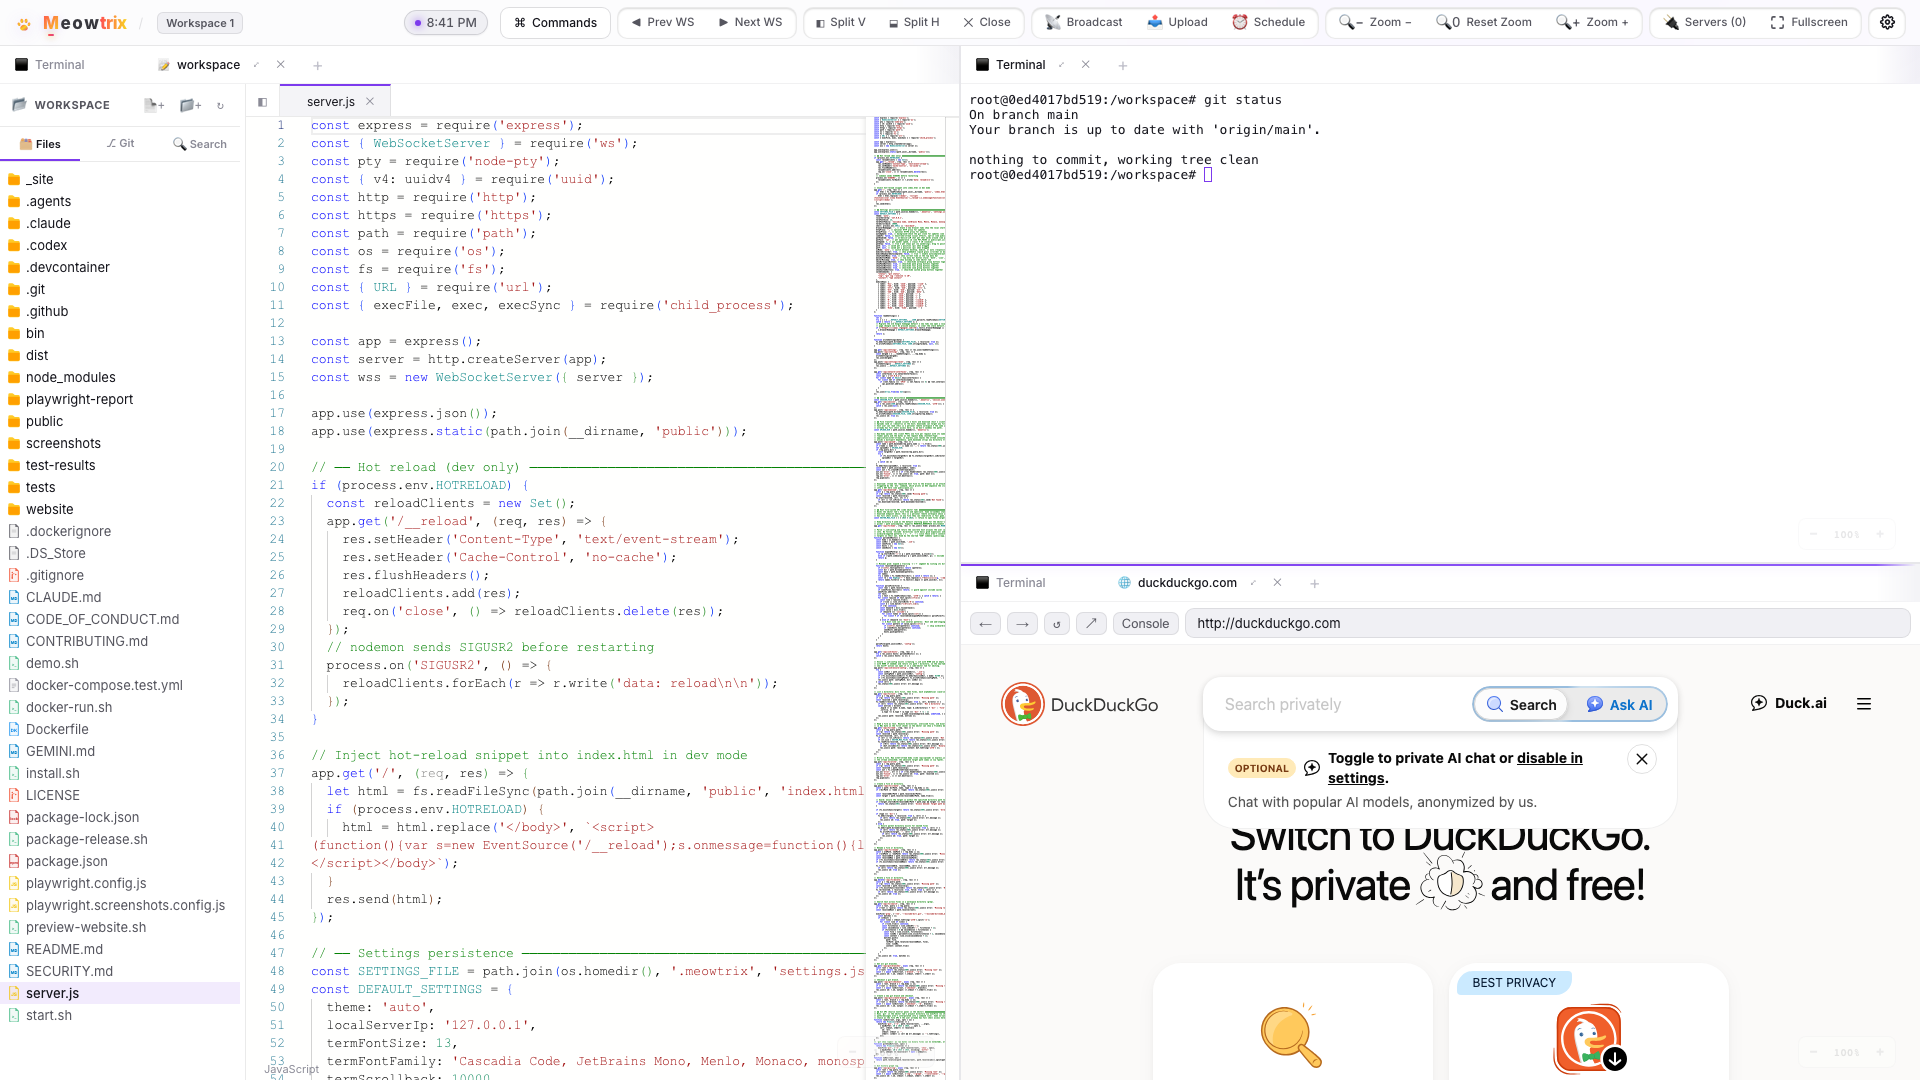
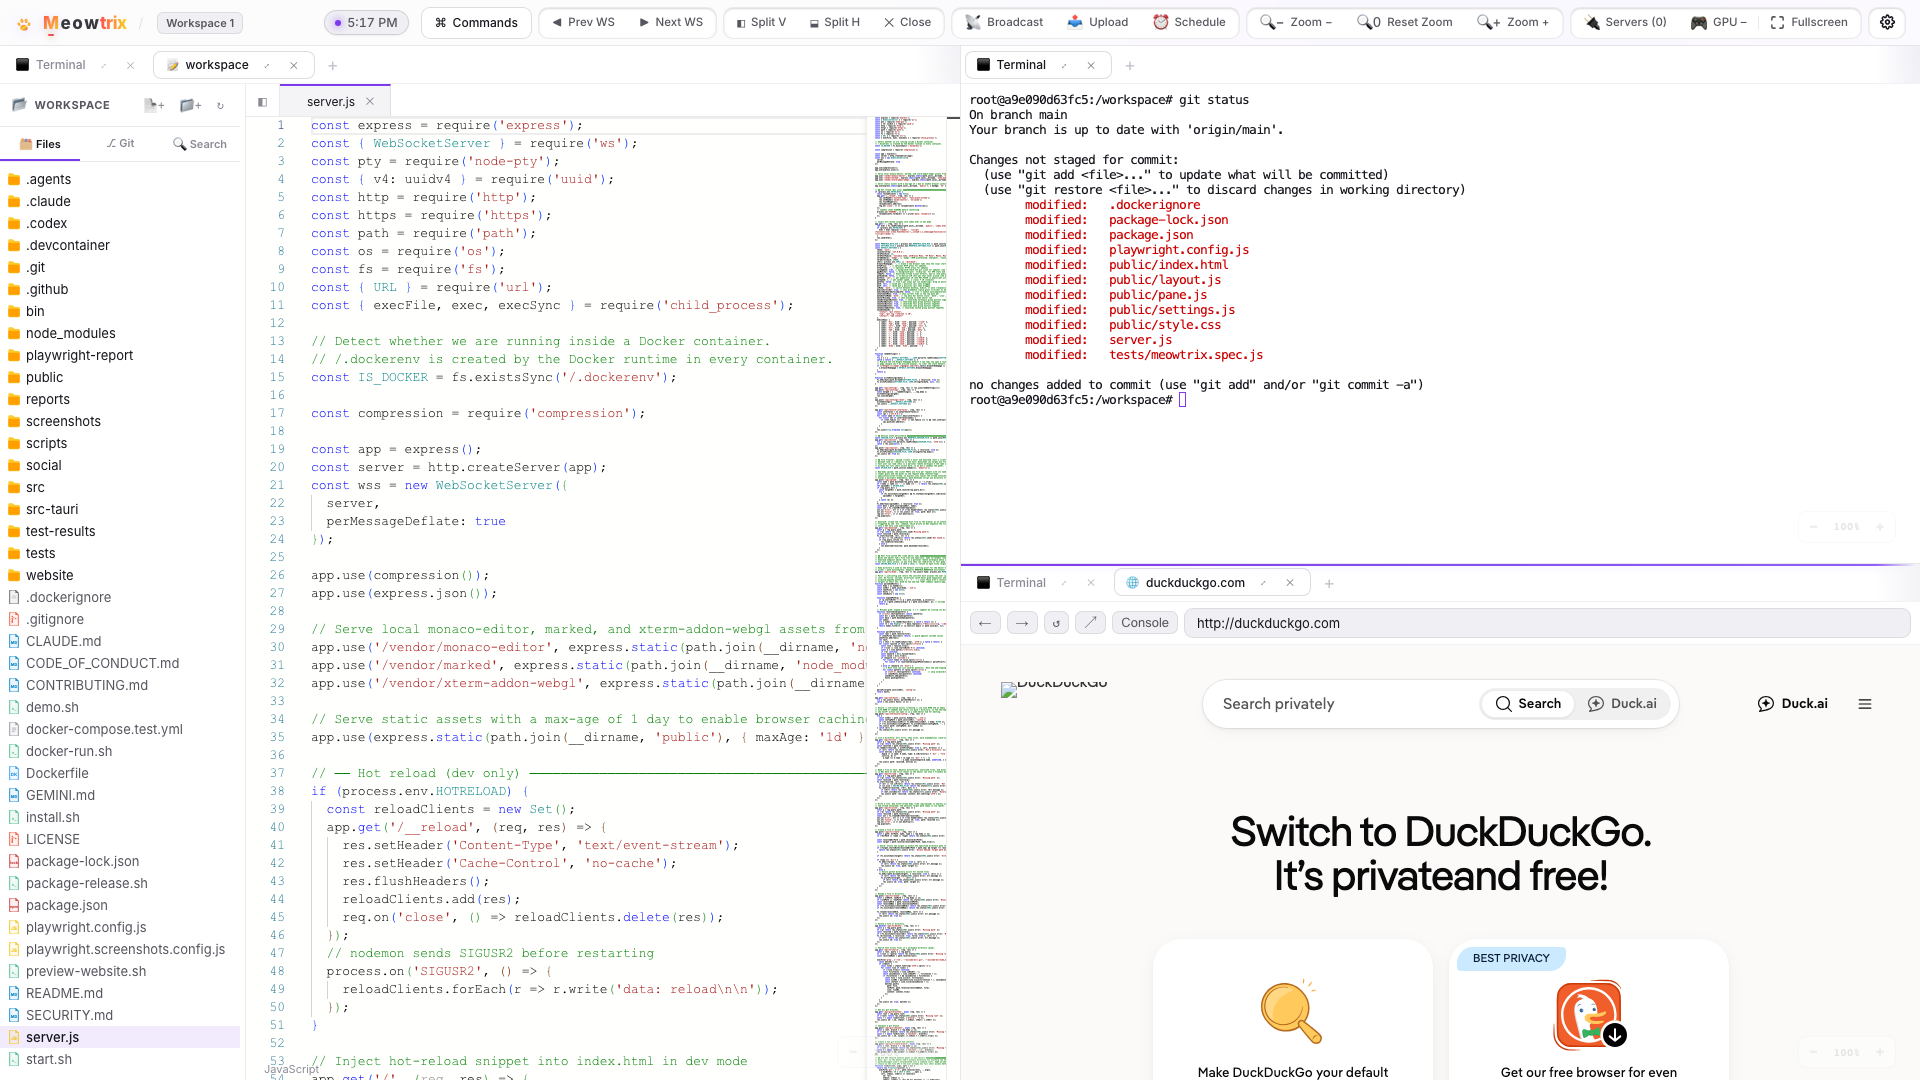
feat: add WebGL GPU terminal rendering, native SF Mono font stack, and crisp hairline border styling

diff --git a/public/pane.js b/public/pane.js
@@ -473,7 +473,13 @@ function closeTab(pane, id) {
   const tab = pane.tabs[idx];
   if (typeof teardownSchedule === 'function') teardownSchedule(tab); // stop any pending Enter timer
   if (tab.ptyId) destroyPty(tab.ptyId);
-  if (tab.term) tab.term.dispose();
+  if (tab.webglAddon) {
+    try { tab.webglAddon.dispose(); } catch (e) {}
+    tab.webglAddon = null;
+  }
+  if (tab.term) {
+    try { tab.term.dispose(); } catch (e) {}
+  }
   if (tab.disposeTerminal) tab.disposeTerminal();
   if (tab.disposeEditor) tab.disposeEditor();
   tab.viewEl.remove();
@@ -495,10 +501,11 @@ function initTerminalTab(tab, existingPtyId) {
   const term = new Terminal({
     theme: getTermTheme(),
     fontSize: Math.round((s.termFontSize || 13) * (tab.zoomLevel || 1.0)),
-    fontFamily: s.termFontFamily || '"Cascadia Code", "JetBrains Mono", Menlo, Monaco, monospace',
+    fontFamily: s.termFontFamily || '"Cascadia Code", "JetBrains Mono", "SF Mono", Menlo, Monaco, monospace',
     cursorBlink: true,
     scrollback: s.termScrollback || 10000,
     allowProposedApi: true,
+    screenReaderMode: true,
   });
   const fitAddon = new FitAddon.FitAddon();
   term.loadAddon(fitAddon);
@@ -653,6 +660,23 @@ function initTerminalTab(tab, existingPtyId) {
   }
 
   term.open(tab.viewEl);
+
+  // Load WebGL addon for GPU-accelerated glyph rendering and crisp high-DPI text
+  if (window.WebglAddon && s.termRenderer !== 'canvas' && s.termRenderer !== 'dom') {
+    try {
+      const webglAddon = new window.WebglAddon.WebglAddon();
+      webglAddon.onContextLoss(() => {
+        console.warn('WebGL context lost, disposing WebGL addon to fallback to 2D renderer');
+        try { webglAddon.dispose(); } catch (_) {}
+        tab.webglAddon = null;
+      });
+      term.loadAddon(webglAddon);
+      tab.webglAddon = webglAddon;
+    } catch (e) {
+      console.warn('WebGL addon failed to initialize, falling back to default renderer:', e);
+      tab.webglAddon = null;
+    }
+  }
 
   // Prevent browser autofill and password manager popups on the terminal input textarea
   const helperTextarea = tab.viewEl.querySelector('.xterm-helper-textarea');
@@ -824,17 +848,47 @@ function initTerminalTab(tab, existingPtyId) {
     tab.zoomLevel = zoomLevel;
     const baseFontSize = (getSettings().termFontSize || 13);
     term.options.fontSize = Math.round(baseFontSize * zoomLevel);
+    if (tab.webglAddon && typeof tab.webglAddon.clearTextureAtlas === 'function') {
+      try { tab.webglAddon.clearTextureAtlas(); } catch {}
+    }
     if (tab.fitAddon && tab.viewEl && tab.viewEl.classList.contains('active')) {
       try { tab.fitAddon.fit(); } catch {}
     }
   };
   tab.disposeTerminal = () => {
     ro.disconnect();
+    if (tab.webglAddon) {
+      try { tab.webglAddon.dispose(); } catch (_) {}
+      tab.webglAddon = null;
+    }
     if (tab.mobileScrollDis) { tab.mobileScrollDis.dispose(); tab.mobileScrollDis = null; }
     if (tab.mobileLfDis) { tab.mobileLfDis.dispose(); tab.mobileLfDis = null; }
     if (tab.mobileResizeDis) { tab.mobileResizeDis.dispose(); tab.mobileResizeDis = null; }
     if (tab.acActive) closeAutocomplete(tab);
   };
+}
+
+function applyTermRenderer(tab, renderer) {
+  if (!tab || tab.type !== 'terminal' || !tab.term) return;
+  const targetRenderer = renderer || (typeof getSettings === 'function' ? getSettings().termRenderer : 'webgl') || 'webgl';
+  if (targetRenderer === 'webgl' && window.WebglAddon && !tab.webglAddon) {
+    try {
+      const addon = new window.WebglAddon.WebglAddon();
+      addon.onContextLoss(() => {
+        try { addon.dispose(); } catch (_) {}
+        tab.webglAddon = null;
+      });
+      tab.term.loadAddon(addon);
+      tab.webglAddon = addon;
+    } catch (e) {
+      console.warn('Failed to load WebGL addon:', e);
+    }
+  } else if ((targetRenderer === 'canvas' || targetRenderer === 'dom') && tab.webglAddon) {
+    try {
+      tab.webglAddon.dispose();
+    } catch (e) {}
+    tab.webglAddon = null;
+  }
 }
 
 function initBrowserTab(tab, viewEl, label, initialUrl) {

diff --git a/public/style.css b/public/style.css
@@ -925,24 +925,26 @@ html[data-theme="cappuccino"] #toolbar button.btn-danger:hover { background: #fe
 }
 
 /* ── Split containers ── */
-.split-container { display: flex; width: 100%; height: 100%; overflow: hidden; }
+.split-container { display: flex; width: 100%; height: 100%; overflow: hidden; transform: translateZ(0); }
 .split-container.vertical { flex-direction: row; }
 .split-container.horizontal { flex-direction: column; }
 
 .split-divider {
   background: var(--border2); flex-shrink: 0;
   transition: background 0.15s var(--ease); position: relative;
+  box-sizing: border-box;
 }
-.split-divider::after { content: ''; position: absolute; inset: -3px; }
+.split-divider::after { content: ''; position: absolute; inset: -4px; z-index: 10; }
 .split-divider:hover, .split-divider.dragging { background: var(--accent); }
-.split-container.vertical > .split-divider { width: 2px; cursor: col-resize; }
-.split-container.horizontal > .split-divider { height: 2px; cursor: row-resize; }
+.split-container.vertical > .split-divider { width: 1px; cursor: col-resize; }
+.split-container.horizontal > .split-divider { height: 1px; cursor: row-resize; }
 
 /* ── Pane ── */
 .pane {
   display: flex; flex-direction: column; overflow: hidden;
   min-width: 80px; min-height: 60px; flex: 1;
   position: relative;
+  transform: translateZ(0);
 }
 .pane.maximized {
   position: fixed !important;
@@ -1004,12 +1006,12 @@ body.has-maximized-pane .pane.maximized {
   flex-shrink: 0; user-select: none; position: relative;
   transition: color 0.12s var(--ease), background 0.12s var(--ease), border-color 0.12s var(--ease);
   touch-action: none; /* enable pointer-based touch drag without the bar scrolling */
-  border: 1px solid var(--border3);
+  border: 1px solid transparent;
 }
-.tab:hover { color: var(--text); background: var(--bg3); border-color: var(--text2); }
+.tab:hover { color: var(--text); background: var(--bg3); border-color: var(--border3); }
 .tab.active {
   color: var(--text); background: var(--tab-bg);
-  border-color: var(--accent);
+  border-color: var(--border3);
   box-shadow: var(--shadow), var(--glow-soft);
 }
 
@@ -1108,6 +1110,15 @@ body.dragging-tab .pane-content { pointer-events: none; }
 
 /* ── Terminal ── */
 .terminal-view { background: var(--term-bg); padding: 8px; bottom: 8px; }
+.terminal-view,
+.xterm,
+.xterm-screen,
+.xterm-viewport,
+.xterm-rows {
+  -webkit-font-smoothing: subpixel-antialiased !important;
+  -moz-osx-font-smoothing: auto !important;
+  text-rendering: optimizeLegibility;
+}
 .xterm-viewport { overflow-y: auto !important; }
 /* xterm renders its own canvas — ensure container bg matches to avoid flash */
 .xterm { background: var(--term-bg) !important; }

diff --git a/public/settings.js b/public/settings.js
@@ -105,6 +105,12 @@ function applyTermSettings() {
     t.term.options.fontSize = Math.round((currentSettings.termFontSize || 13) * (t.zoomLevel || 1.0));
     t.term.options.fontFamily = currentSettings.termFontFamily;
     t.term.options.scrollback = currentSettings.termScrollback;
+    if (typeof applyTermRenderer === 'function') {
+      applyTermRenderer(t, currentSettings.termRenderer || 'webgl');
+    }
+    if (t.webglAddon && typeof t.webglAddon.clearTextureAtlas === 'function') {
+      try { t.webglAddon.clearTextureAtlas(); } catch {}
+    }
     if (t.fitAddon && t.viewEl && t.viewEl.classList.contains('active')) {
       const wsView = t.viewEl.closest('.workspace-view');
       if (!wsView || wsView.classList.contains('active')) {
@@ -307,6 +313,8 @@ function populateControls(s) {
   const fontSel = document.getElementById('s-font-family');
   const match = [...fontSel.options].find(o => s.termFontFamily.startsWith(o.value.split(',')[0]));
   if (match) fontSel.value = match.value;
+  const rendererSel = document.getElementById('s-term-renderer');
+  if (rendererSel) rendererSel.value = s.termRenderer || 'webgl';
   document.getElementById('s-scrollback').value = String(s.termScrollback);
   document.getElementById('s-shell').value = s.shell;
   document.getElementById('s-homepage').value = s.browserHomepage;
@@ -591,6 +599,12 @@ function wireControls() {
   s('s-font-family', 'termFontFamily');
   document.getElementById('s-font-family').addEventListener('change', () => applyTermSettings());
 
+  const rendererSel = document.getElementById('s-term-renderer');
+  if (rendererSel) {
+    s('s-term-renderer', 'termRenderer');
+    rendererSel.addEventListener('change', () => applyTermSettings());
+  }
+
   s('s-scrollback', 'termScrollback', Number);
   document.getElementById('s-scrollback').addEventListener('change', () => applyTermSettings());
 
@@ -772,7 +786,7 @@ function wireControls() {
 }
 
 function onSettingChanged(key) {
-  if (['termFontSize', 'termFontFamily', 'termScrollback'].includes(key)) applyTermSettings();
+  if (['termFontSize', 'termFontFamily', 'termScrollback', 'termRenderer'].includes(key)) applyTermSettings();
   if (key === 'uiMode') {
     if (typeof updateUiMode === 'function') updateUiMode();
   }

diff --git a/public/index.html b/public/index.html
@@ -172,8 +172,17 @@
               <select id="s-font-family">
                 <option value="Cascadia Code, monospace">Cascadia Code</option>
                 <option value="JetBrains Mono, monospace">JetBrains Mono</option>
+                <option value="SF Mono, Menlo, Monaco, monospace">SF Mono (macOS Native)</option>
                 <option value="Menlo, Monaco, monospace">Menlo / Monaco</option>
                 <option value="monospace">System monospace</option>
+              </select>
+            </div>
+            <div class="settings-row">
+              <label for="s-term-renderer">Terminal renderer</label>
+              <select id="s-term-renderer">
+                <option value="webgl">WebGL (GPU accelerated, sharpest)</option>
+                <option value="canvas">Canvas (Standard 2D)</option>
+                <option value="dom">DOM (Safe fallback)</option>
               </select>
             </div>
             <div class="settings-row">
@@ -436,6 +445,7 @@
   <script src="https://cdn.jsdelivr.net/npm/xterm-addon-fit@0.8.0/lib/xterm-addon-fit.js"></script>
   <script src="https://cdn.jsdelivr.net/npm/@xterm/addon-search@0.15.0/lib/addon-search.js"></script>
   <script src="https://cdn.jsdelivr.net/npm/@xterm/addon-web-links@0.12.0/lib/addon-web-links.min.js"></script>
+  <script src="https://cdn.jsdelivr.net/npm/xterm-addon-webgl@0.16.0/lib/xterm-addon-webgl.js" onerror="this.onerror=null;this.src='/vendor/xterm-addon-webgl/xterm-addon-webgl.js'"></script>
   <!-- Monaco's AMD loader; editor.js require()s the editor lazily on first use. -->
   <script src="https://cdn.jsdelivr.net/npm/monaco-editor@0.45.0/min/vs/loader.js"></script>
   <script src="demo.js"></script>

diff --git a/server.js b/server.js
@@ -26,9 +26,10 @@ const wss = new WebSocketServer({
 app.use(compression());
 app.use(express.json());
 
-// Serve local monaco-editor and marked assets from node_modules for offline-readiness and reduced load latency
+// Serve local monaco-editor, marked, and xterm-addon-webgl assets from node_modules for offline-readiness and reduced load latency
 app.use('/vendor/monaco-editor', express.static(path.join(__dirname, 'node_modules', 'monaco-editor')));
 app.use('/vendor/marked', express.static(path.join(__dirname, 'node_modules', 'marked', 'lib')));
+app.use('/vendor/xterm-addon-webgl', express.static(path.join(__dirname, 'node_modules', 'xterm-addon-webgl', 'lib')));
 
 // Serve static assets with a max-age of 1 day to enable browser caching and reduce load latency
 app.use(express.static(path.join(__dirname, 'public'), { maxAge: '1d' }));
@@ -66,7 +67,8 @@ const DEFAULT_SETTINGS = {
   theme: 'auto',
   localServerIp: '127.0.0.1',
   termFontSize: 13,
-  termFontFamily: 'Cascadia Code, JetBrains Mono, Menlo, Monaco, monospace',
+  termFontFamily: 'Cascadia Code, JetBrains Mono, "SF Mono", Menlo, Monaco, monospace',
+  termRenderer: 'webgl', // 'webgl' (GPU accelerated, sharpest), 'canvas' (2D), or 'dom'
   termScrollback: 10000,
   shell: process.env.SHELL || '/bin/bash',
   browserHomepage: '', // blank → new browser tabs show the local start page

diff --git a/website/docs/index.html b/website/docs/index.html
@@ -325,6 +325,7 @@ HOST=0.0.0.0 npm start</code></pre>
           <tbody>
             <tr><td>Theme</td><td>Ten color themes (Midnight, Daylight, Ocean, Matrix, Ember, Sakura, Bubblegum, Catppuccin, Cappuccino, Synthwave). Terminals are themed to match.</td></tr>
             <tr><td>Terminal font &amp; size</td><td>Font family and size for all terminals.</td></tr>
+            <tr><td>Terminal renderer</td><td>Select between WebGL (GPU-accelerated glyph rendering for high-DPI displays), Canvas (2D), or DOM safe fallback.</td></tr>
             <tr><td>Scrollback</td><td>How many lines of history each terminal keeps.</td></tr>
             <tr><td>Shell</td><td>Which shell to spawn for new terminals (e.g. <code>/bin/zsh</code>).</td></tr>
             <tr><td>Default homepage</td><td>URL new browser tabs open to (blank shows a start page).</td></tr>

diff --git a/public/layout.js b/public/layout.js
@@ -73,7 +73,7 @@ function makeDraggable(divider, container, dir) {
     const onMove = (e) => {
       if (e.pointerId !== startE.pointerId) return;
       const delta = (isVert ? e.clientX : e.clientY) - startPos;
-      const newPrevPx = Math.max(80, Math.min(combinedPx - 80, prevPx + delta));
+      const newPrevPx = Math.max(80, Math.min(combinedPx - 80, Math.round(prevPx + delta)));
       const newPrevGrow = newPrevPx * growPerPx;
       prev.style.flex = `${newPrevGrow} 1 0`;
       next.style.flex = `${combinedGrow - newPrevGrow} 1 0`;

diff --git a/tests/meowtrix.spec.js b/tests/meowtrix.spec.js
@@ -427,7 +427,7 @@ test.describe('Meowtrix E2E Tests', () => {
     const terminalEl = page.locator('.terminal-view.active').first();
     await terminalEl.waitFor({ state: 'visible' });
     // Wait for the shell to start up and render its prompt (e.g. $, #, %, >, :, /, ~)
-    const xtermRows = page.locator('.xterm-rows').first();
+    const xtermRows = page.locator('.xterm-rows, [role="listitem"]').first();
     await expect(xtermRows).toContainText(/[#$%>:/~]/);
     await terminalEl.click();
     

diff --git a/playwright.config.js b/playwright.config.js
@@ -17,7 +17,7 @@ module.exports = defineConfig({
   /* Limit workers to 1 to prevent multiple browser instances from fighting over session */
   workers: 1,
   /* Reporter to use. See https://playwright.dev/docs/test-reporters */
-  reporter: 'html',
+  reporter: [['html', { open: 'never' }], ['list']],
   /* Shared settings for all the projects below. See https://playwright.dev/docs/api/class-testoptions. */
   use: {
     /* Base URL to use in actions like `await page.goto('/')`. */

diff --git a/README.md b/README.md
@@ -292,6 +292,7 @@ Settings are saved to `~/.meowtrix/settings.json` on the host machine; the works
 | Theme | Midnight (dark) |
 | Terminal font size | 13 |
 | Terminal font | Cascadia Code |
+| Terminal renderer | WebGL (GPU accelerated, sharpest) |
 | Scrollback | 10,000 lines |
 | Shell | `$SHELL` (falls back to `/bin/bash`) |
 | Browser homepage | blank (shows a start page) |
